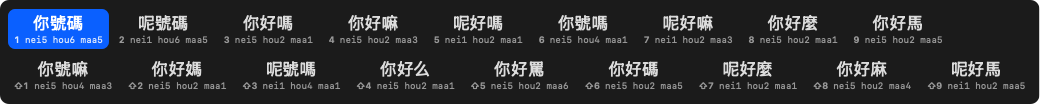
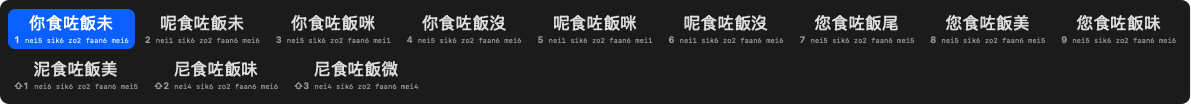
panel: fit long readings by shrinking the type, and diversify on head
Two five-syllable candidates differ only in their last syllable, so a strip of
nine near-identical rows is worse than a short strip. Candidates that agree on
everything but the last character are now capped at three, and a long jyutping
label shrinks to 7pt before it is ever truncated.

diff --git a/Sources/Cantainput/CandidatePanel.swift b/Sources/Cantainput/CandidatePanel.swift
@@ -18,10 +18,29 @@ final class CandidateView: NSView {
     private let numberFont = NSFont.monospacedDigitSystemFont(ofSize: 9, weight: .semibold)
 
     private var cells: [NSRect] = []
+    private var codeLabels: [String] = []
+    private var codeSizes: [CGFloat] = []
+    /// A five-syllable reading is 24 characters wide; clamp it so one long
+    /// sentence candidate cannot stretch the whole strip off the screen.
+    private static let maxCodeWidth: CGFloat = 118
     private var measured = NSSize(width: 10, height: 10)
 
     private func widthOf(_ s: String, _ font: NSFont) -> CGFloat {
         (s as NSString).size(withAttributes: [.font: font]).width
+    }
+
+    /// Long readings shrink before they get cut: truncating the tail would hide
+    /// the one syllable that tells two candidates apart.
+    private func codeLayout(_ code: String) -> (String, CGFloat) {
+        for size in [9.0, 8.0, 7.0] as [CGFloat] {
+            let font = NSFont.monospacedSystemFont(ofSize: size, weight: .regular)
+            if widthOf(code, font) <= CandidateView.maxCodeWidth { return (code, size) }
+        }
+        var s = code
+        while !s.isEmpty && widthOf(s + "\u{2026}", codeFont) > CandidateView.maxCodeWidth {
+            s.removeLast()
+        }
+        return (s + "\u{2026}", 9.0)
     }
 
     private func label(for index: Int) -> String {
@@ -34,11 +53,17 @@ final class CandidateView: NSView {
     func measure() -> NSSize {
         let perRow = CandidateView.perRow
         var widths: [CGFloat] = []
+        codeLabels = []
+        codeSizes = []
         for c in candidates {
             let num = label(for: widths.count)
             let numW = widthOf(num, numberFont)
+            let (code, size) = codeLayout(c.code)
+            let font = NSFont.monospacedSystemFont(ofSize: size, weight: .regular)
+            codeLabels.append(code)
+            codeSizes.append(size)
             let w = max(widthOf(c.text, textFont),
-                        numW + 5 + widthOf(c.code, codeFont))
+                        numW + 5 + widthOf(code, font))
             widths.append(max(w + CandidateView.innerPad * 2, CandidateView.minCellWidth))
         }
         let rows = max(1, (candidates.count + perRow - 1) / perRow)
@@ -102,9 +127,12 @@ final class CandidateView: NSView {
             (num as NSString).draw(at: NSPoint(x: cell.minX + CandidateView.innerPad,
                                                y: cell.minY + 7),
                                    withAttributes: numAttr)
-            (c.code as NSString).draw(at: NSPoint(x: cell.minX + CandidateView.innerPad + numW + 5,
+            let code = i < codeLabels.count ? codeLabels[i] : c.code
+            let size = i < codeSizes.count ? codeSizes[i] : 9.0
+            let labelFont = NSFont.monospacedSystemFont(ofSize: size, weight: .regular)
+            (code as NSString).draw(at: NSPoint(x: cell.minX + CandidateView.innerPad + numW + 5,
                                                   y: cell.minY + 7),
-                                      withAttributes: codeAttr)
+                                    withAttributes: [.font: labelFont, .foregroundColor: codeColor])
         }
 
         ctx.restoreGraphicsState()

diff --git a/Sources/CantainputCore/Engine.swift b/Sources/CantainputCore/Engine.swift
@@ -132,13 +132,20 @@ public final class Engine {
     /// character are useless to show eight times.
     static func diversify(_ items: [Candidate], limit: Int) -> [Candidate] {
         var tails: [String: Int] = [:]
+        var heads: [String: Int] = [:]
         var out: [Candidate] = []
         for c in items {
             if c.text.count >= 2 {
                 let tail = String(c.text.dropFirst())
                 let seen = tails[tail, default: 0]
                 if seen >= 2 { continue }
+                // Also cap candidates that agree on everything but the last
+                // character, otherwise 你食咗飯未/咪/沒/美 fill the whole strip.
+                let head = String(c.text.dropLast())
+                let headSeen = heads[head, default: 0]
+                if headSeen >= 3 { continue }
                 tails[tail] = seen + 1
+                heads[head] = headSeen + 1
             }
             out.append(c)
             if out.count >= limit { break }
